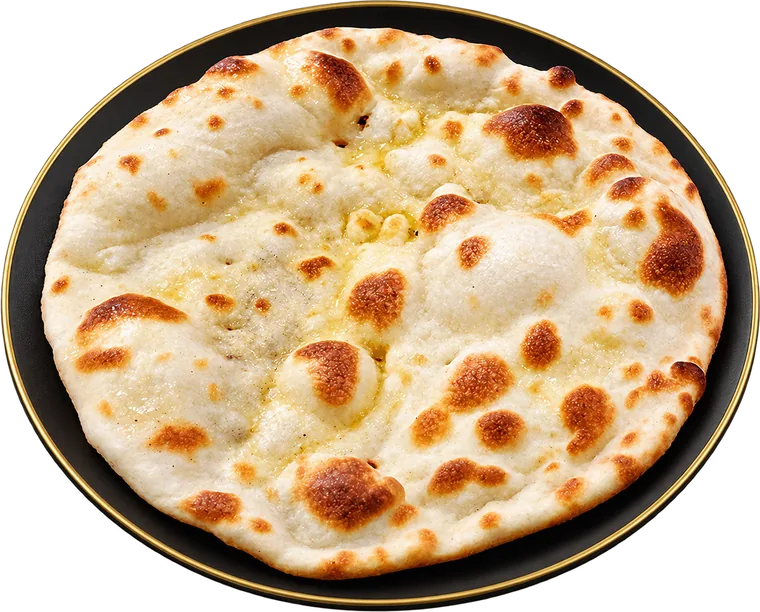
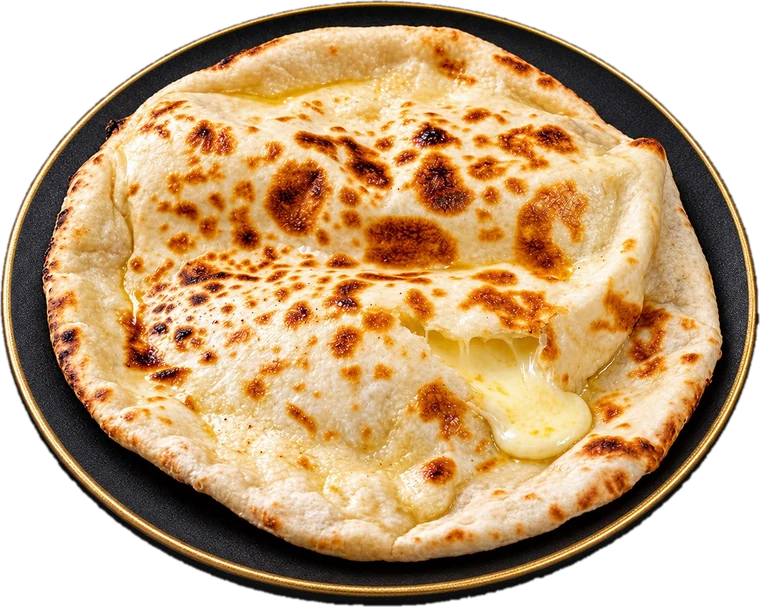
Photos HD : épinards, poulet korma, naan fromage et naan nature
Claude-Session: https://claude.ai/code/session_017WVysqERD8GsLfZDzdbQ6X

diff --git a/js/data.js b/js/data.js
@@ -63,11 +63,11 @@ export const MENU = [
       { nom: 'Kurma + naan', prix: 8, img: P + 'kurma.jpg' },
       { nom: 'Keema + naan', prix: 8, img: P + 'keema.webp' },
       { nom: 'Kofta + naan', prix: 8, img: P + 'kofta.webp' },
-      { nom: 'Poulet korma + naan', prix: 8, img: P + 'poulet-korma.jpg' },
+      { nom: 'Poulet korma + naan', prix: 8, img: P + 'poulet-korma.webp' },
       { nom: 'Veau kurma + naan', prix: 12, img: P + 'veau-kurma.webp' },
       { nom: 'Depiaza + naan', prix: 12, img: P + 'depiaza.webp' },
       { nom: 'Foie de bœuf + naan', prix: 8, img: P + 'foie.webp' },
-      { nom: 'Épinards + naan', prix: 8, img: P + 'epinards.jpg' },
+      { nom: 'Épinards + naan', prix: 8, img: P + 'epinards.webp' },
       { nom: 'Bamia + naan', prix: 8, img: P + 'bamia.webp' },
       { nom: 'Chou-fleur + naan', prix: 8, img: P + 'chou-fleur.webp' },
       { nom: 'Haricots rouges + naan', prix: 8, img: P + 'haricots.webp' },
@@ -98,7 +98,7 @@ export const MENU = [
     items: [
       { nom: 'Bolani', prix: 2, img: P + 'bolani.webp' },
       { nom: 'Afghani naan', prix: 1.5, img: P + 'afghani-naan.webp' },
-      { nom: 'Naan nature', prix: 1 },
+      { nom: 'Naan nature', prix: 1, img: P + 'naan-nature.webp' },
       { nom: 'Naan fromage', prix: 2.5, img: P + 'naan-fromage.webp' },
       { nom: 'Afghani soupe', prix: 5, img: P + 'soupe.webp' },
     ],
